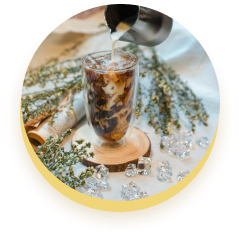
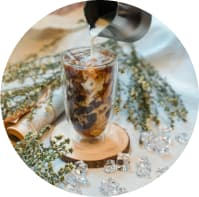
products

diff --git a/src/sass/components/_products.scss b/src/sass/components/_products.scss
@@ -1,13 +1,11 @@
 .products {
-    font-family: $font-montserrat;
-    background-image: url(../images/Frame28.png);
+    background-image: url(../images/bgmob.png);
     background-size: cover;
     background-repeat: no-repeat;
     background-position: center;
 }
 
 .products__label {
-    font-family: $font-montserrat;
     text-align: center;
     font-weight: 800;
     font-size: 18px;
@@ -18,7 +16,6 @@
 .section__title {
     color: $title-color;
     text-transform: uppercase;
-    font-family: $font-seymour-one;
     text-align: center;
 }
 
@@ -28,46 +25,118 @@
 
 .products-list__title {
     color: $text-color;
-    font-family: $font-montserrat;
     text-transform: uppercase;
-    margin-top: 123px;
     margin-bottom: 40px;
 }
 
 .products-list__card {
     position: relative;
-    padding: 123px 40px 0 40px;
-    // width: 280px;
-    // height: 420px;
-    margin-top: 40px;
+    // padding: 123px 40px 0 40px;
+    width: 100%;
+    margin-top: 143px;
     text-align: center;
     border-radius: 24px;
-    margin-top: 145px;
-    &::before {
-        position: absolute;
-        content: "";    
-        width: 200px;
-        height: 210px;
-        top: 0;
-        left: 50%;
-        transform: translate(-50%, -50%);
-        background: url(../images/prod1mob.jpg);
-        background-position: center;
-        background-size: cover;
-        background-repeat: no-repeat;
-       
-        
-
-        border-radius: 50%;   
-    }
+    
     &.one {    
-        background-color: #AEC6A5;
+        background-color: #AEC6A5; 
+        &::before {
+            position: relative;
+            display: block;
+            content: "";
+            background-color: linear-gradient(0deg, rgba(156, 190, 143, 0.7), rgba(156, 190, 143, 0.7)), #D9D9D9;
+            box-shadow: 0px 5.34219px 20.0332px rgba(10, 136, 23, 0.25);
+            width: 200px;
+            height: 200px;
+            margin-top: 51px;
+            top: 50%;
+            left: 50%;
+            transform: translate(-50%, -40%);
+            border-radius: 50%;
+        }
+        
+        &.one::after {
+            position: relative;
+            display: block;
+            content: "";
+            width: 200px;
+            height: 200px;
+            margin-top: 51px;
+            top: 50%;
+            left: 50%;
+            transform: translate(-50%, -240%);
+            border-radius: 50%;
+            background-image: url(../images/prod1mob.jpg);
+            background-repeat: no-repeat;
+            background-position: center;
+            background-size: 200px 200px;
+        }
     }
     &.two {    
         background-color: #EFD478;
+        &::before {
+            position: relative;
+            display: block;
+            content: "";
+            background-color: linear-gradient(0deg, rgba(248, 210, 78, 0.7), rgba(248, 210, 78, 0.7)), #D9D9D9;
+            box-shadow: 0px 5.40397px 20.2649px rgba(153, 114, 23, 0.25);
+            width: 200px;
+            height: 200px;
+            margin-top: 51px;
+            top: 50%;
+            left: 50%;
+            transform: translate(-50%, -40%);
+            border-radius: 50%;
+        }
+
+        &.two::after {
+            position: relative;
+            display: block;
+            content: "";
+            width: 200px;
+            height: 200px;
+            margin-top: 51px;
+            top: 50%;
+            left: 50%;
+            transform: translate(-50%, -253%);
+            border-radius: 50%;
+            background-image: url(../images/prod2mob.jpg);
+            background-repeat: no-repeat;
+            background-position: center;
+            background-size: 200px 200px;
+        }
     }
     &.three {    
         background-color: #D6936D;
+         &::before {
+            position: relative;
+            display: block;
+            content: "";
+            background-color: linear-gradient(0deg, rgba(248, 210, 78, 0.7), rgba(248, 210, 78, 0.7)), #D9D9D9;
+            box-shadow: 0px 5.40397px 20.2649px rgba(153, 114, 23, 0.25);
+            width: 200px;
+            height: 200px;
+            margin-top: 51px;
+            top: 50%;
+            left: 50%;
+            transform: translate(-50%, -40%);
+            border-radius: 50%;
+        }
+        &.three::after {
+            position: relative;
+            display: block;
+            content: "";
+            width: 200px;
+            height: 200px;
+            margin-top: 51px;
+            top: 50%;
+            left: 50%;
+            transform: translate(-50%, -253%);
+            border-radius: 50%;    
+            background-image: url(../images/prod3mob.jpg);
+            background-repeat: no-repeat;
+            background-position: center;
+            background-size: 200px 200px;
+        }
     }
 }
 
@@ -76,7 +145,6 @@
     font-size: 14px;
     line-height: 176%;
     color: $text-color;
-    font-family: $font-montserrat;
     text-align: center;
 }
 
